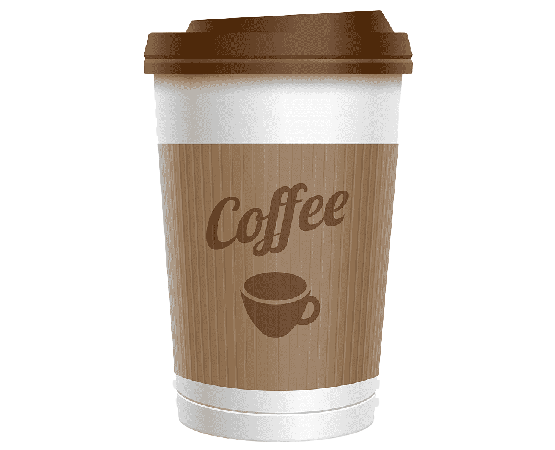
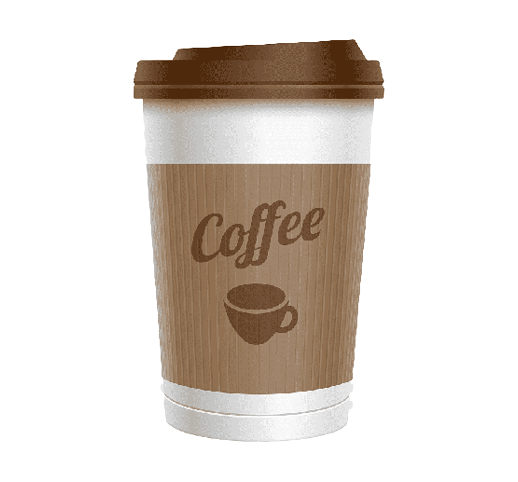
Update details

diff --git a/src/screens/Details/index.js b/src/screens/Details/index.js
@@ -1,16 +1,19 @@
-import { SafeAreaView, Text, Image, View, ScrollView } from "react-native";
+import { Text, Image, View, ScrollView, TextInput } from "react-native";
 import React from "react";
 import styles from "./styles";
 import Line from "../../components/Line";
+import Checkbox from 'expo-checkbox';
+import { theme1 } from "../../theme";
 
 const Details = () => {
+
   return (
     <View style={styles.container}>
       <View style={styles.header_container}>
         <View style={styles.header_background}></View>
         <Image source={require("../../../assets/images/coffee-cup.png")} style={styles.header_image} />
       </View>
-      <ScrollView style={styles.content}>
+      <ScrollView style={styles.content} showsVerticalScrollIndicator={false}>
         <View>
           <View style={styles.coffee_title}>
             <Text style={styles.coffee_name}>Coconut coffee</Text>
@@ -47,6 +50,41 @@ const Details = () => {
               <Text>Extra Large</Text>
             </View>
           </View>
+        </View>
+        <Line />
+        <View style={styles.topping_container}>
+          <Text style={styles.topping_title}>Toppings</Text>
+          <View style={styles.topping_content}>
+            <View style={styles.checkbox}>
+              <Checkbox
+                value={true}
+                color={true ? theme1.lightBrown : undefined}
+              />
+              <Text style={styles.topping_name}>Cheese</Text>
+            </View>
+            <Text>+$4.00</Text>
+          </View>
+          <View style={styles.topping_content}>
+            <View style={styles.checkbox}>
+              <Checkbox
+                value={false}
+                color={true ? theme1.lightBrown : undefined}
+              />
+              <Text style={styles.topping_name}>Cream</Text>
+            </View>
+            <Text></Text>
+          </View>
+        </View>
+        <Line />
+        <View style={styles.note_content}>
+          <Text style={styles.note_title}>
+            Do you have another request?
+          </Text>
+          <TextInput
+            style={styles.note}
+            placeholder="Note..."
+            multiline={true}
+          />
         </View>
         <Line />
       </ScrollView>

diff --git a/src/screens/Details/styles.js b/src/screens/Details/styles.js
@@ -19,10 +19,19 @@ const styles = StyleSheet.create({
         width: "100%",
     },
     header_image: {
-        height: "70%",
-        width: "50%",
+        height: "77%",
+        width: "40%",
         position: "absolute",
         top: "20%",
+        shadowColor: "#000",
+        shadowOffset: {
+            width: 0,
+            height: 5,
+        },
+        shadowOpacity: 0.34,
+        shadowRadius: 6.27,
+
+        elevation: 10,
     },
     coffee_title: {
         justifyContent: "space-between",
@@ -68,21 +77,58 @@ const styles = StyleSheet.create({
     coffee_large_size: {
         resizeMode: "cover",
         width: 68,
-        height: 110,
+        height: 112,
         marginBottom: 10,
     },
     coffee_medium_size: {
         resizeMode: "cover",
         width: 51,
-        height: 82,
+        height: 83,
         marginBottom: 10,
     },
     coffee_small_size: {
         resizeMode: "cover",
-        width: 37,
+        width: 36,
         height: 60,
         marginBottom: 10,
-    }
+    },
+    topping_container: {
+        marginVertical: 15,
+    },
+    topping_title: {
+        fontSize: 16,
+        fontWeight: "600",
+        color: theme1.lightBrown,
+        marginBottom: 10,
+    },
+    checkbox: {
+        flexDirection: "row",
+    },
+    topping_content: {
+        flexDirection: "row",
+        justifyContent: "space-between",
+        marginBottom: 10,
+    },
+    topping_name: {
+        marginLeft: 10,
+    },
+    note_content: {
+        marginVertical: 15,
+    },
+    note_title: {
+        fontSize: 16,
+        fontWeight: "600",
+        color: theme1.lightBrown,
+        marginBottom: 15,
+    },
+    note: {
+        backgroundColor: theme1.clearBrown,
+        borderRadius: 10,
+        paddingTop: 10,
+        paddingHorizontal: 10,
+        minHeight: 100,
+    },
 });
+
 
 export default styles;
